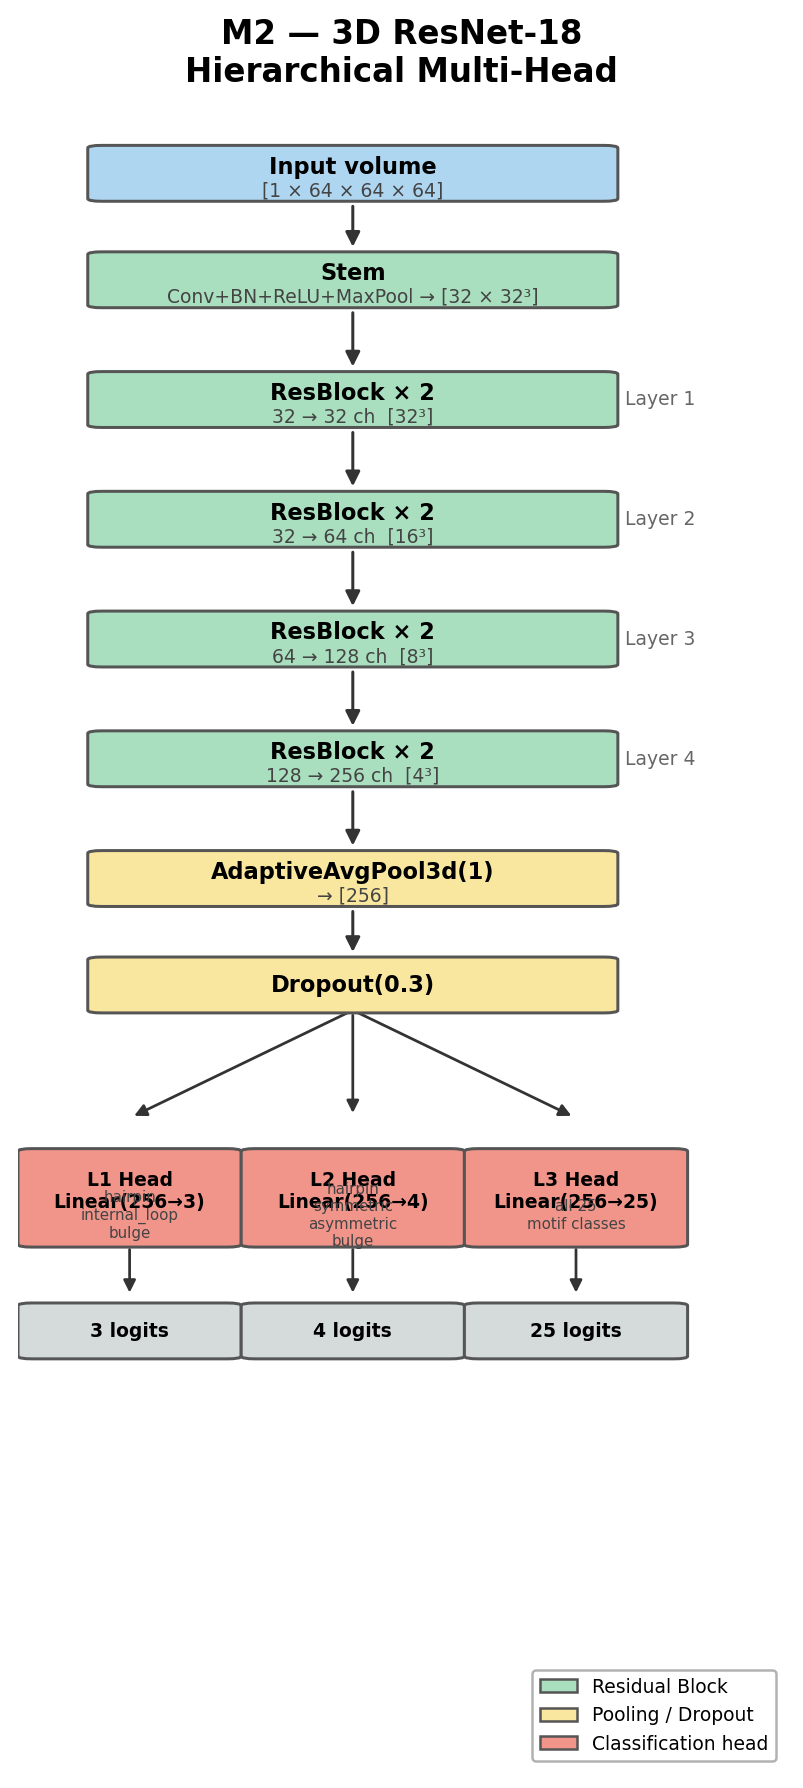
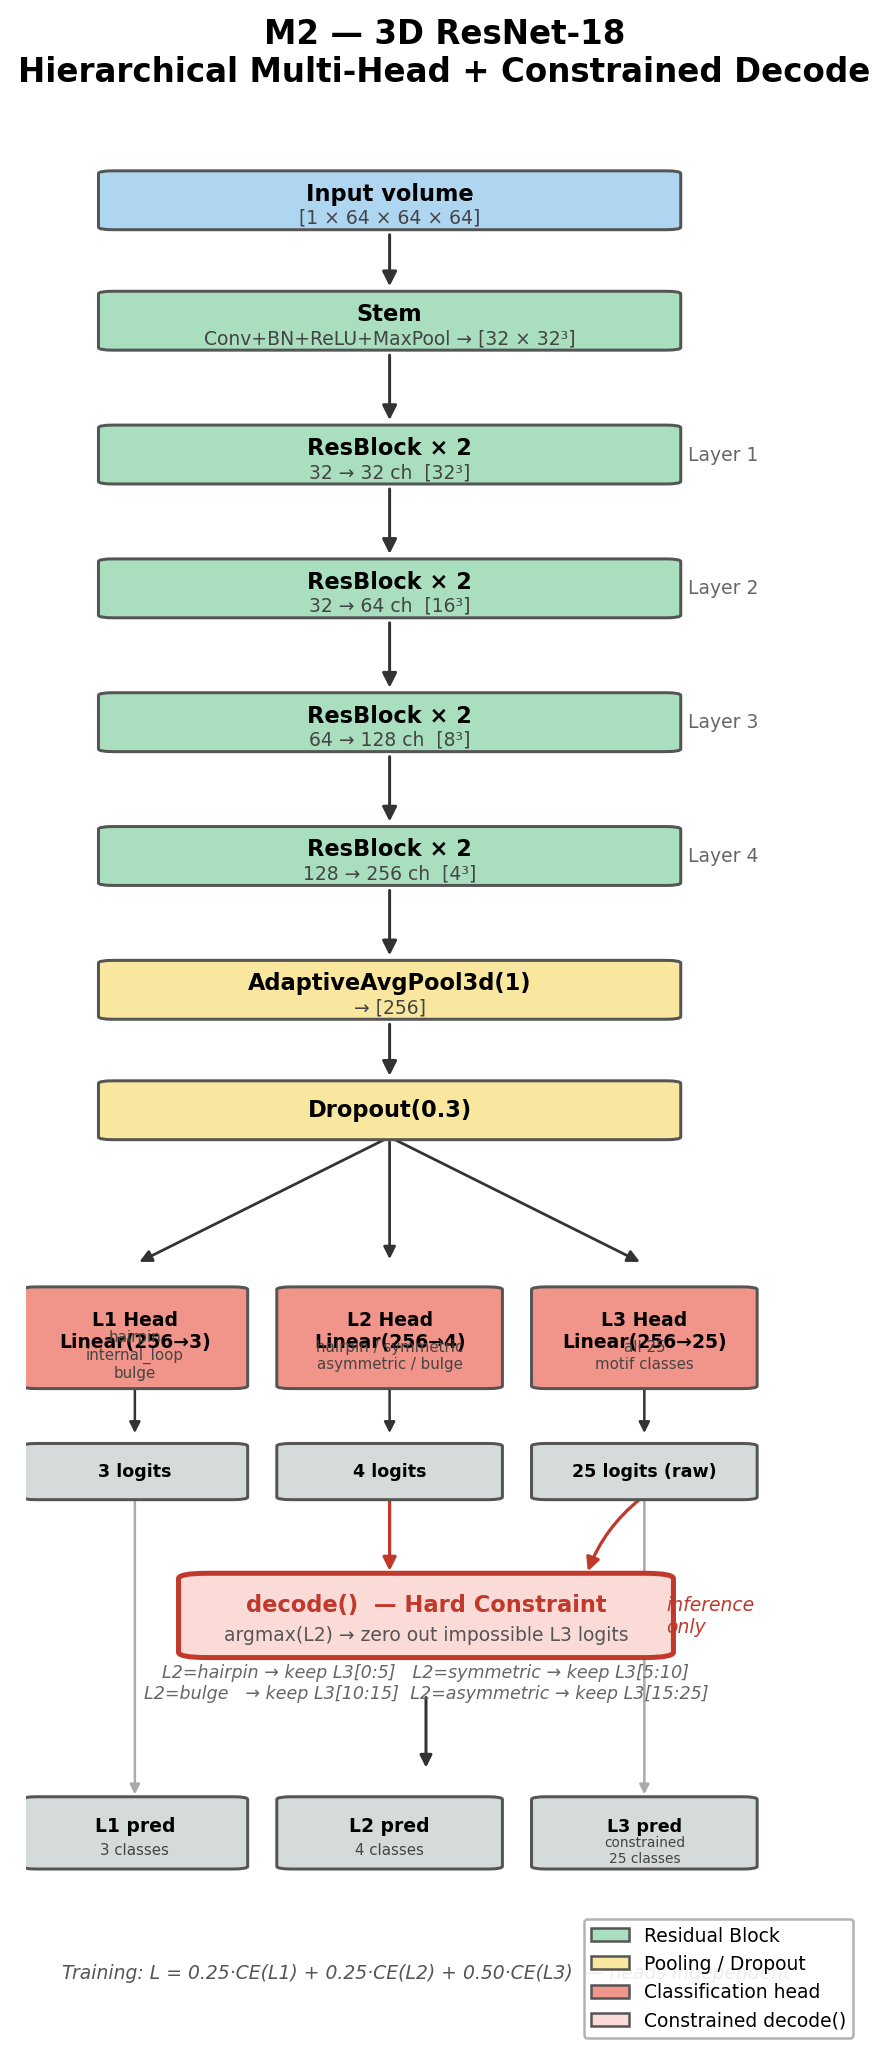
deploy: 2026-06-03 18:31

Changed region(s): [[0.0, 0.0, 0.9963, 1.0], [0.0311, 0.8613, 0.2802, 0.9228], [0.1245, 0.9536, 0.1557, 0.9843]]

diff --git a/scripts/generate_architecture_diagrams.py b/scripts/generate_architecture_diagrams.py
@@ -135,24 +135,24 @@ def draw_m1():
 # ---------------------------------------------------------------------------
 
 def draw_m2():
-    fig, ax = plt.subplots(figsize=(5.5, 12))
-    ax.set_xlim(0, 1.1); ax.set_ylim(0, 12.5)
+    fig, ax = plt.subplots(figsize=(6.0, 14))
+    ax.set_xlim(0, 1.15); ax.set_ylim(0, 14.5)
     ax.axis("off")
-    ax.set_title("M2 — 3D ResNet-18\nHierarchical Multi-Head",
+    ax.set_title("M2 — 3D ResNet-18\nHierarchical Multi-Head + Constrained Decode",
                  fontsize=13, fontweight="bold", pad=10)
 
-    cx = 0.48
-    bw, bh = 0.72, 0.38
+    cx = 0.50
+    bw, bh = 0.76, 0.40
 
     backbone = [
-        (12.0, "Input volume",         "[1 × 64 × 64 × 64]",  "input"),
-        (11.2, "Stem",                 "Conv+BN+ReLU+MaxPool → [32 × 32³]", "conv"),
-        (10.3, "ResBlock × 2",         "32 → 32 ch  [32³]",   "res"),
-        (9.4,  "ResBlock × 2",         "32 → 64 ch  [16³]",   "res"),
-        (8.5,  "ResBlock × 2",         "64 → 128 ch  [8³]",   "res"),
-        (7.6,  "ResBlock × 2",         "128 → 256 ch  [4³]",  "res"),
-        (6.7,  "AdaptiveAvgPool3d(1)", "→ [256]",             "pool"),
-        (5.9,  "Dropout(0.3)",         "",                     "pool"),
+        (13.8, "Input volume",         "[1 × 64 × 64 × 64]",          "input"),
+        (12.9, "Stem",                 "Conv+BN+ReLU+MaxPool → [32 × 32³]", "conv"),
+        (11.9, "ResBlock × 2",         "32 → 32 ch  [32³]",            "res"),
+        (10.9, "ResBlock × 2",         "32 → 64 ch  [16³]",            "res"),
+        (9.9,  "ResBlock × 2",         "64 → 128 ch  [8³]",            "res"),
+        (8.9,  "ResBlock × 2",         "128 → 256 ch  [4³]",           "res"),
+        (7.9,  "AdaptiveAvgPool3d(1)", "→ [256]",                      "pool"),
+        (7.0,  "Dropout(0.3)",         "",                              "pool"),
     ]
 
     for i, (y, lbl, sub, ckey) in enumerate(backbone):
@@ -160,40 +160,92 @@ def draw_m2():
         if i < len(backbone) - 1:
             arrow(ax, cx, y - bh / 2, backbone[i + 1][0] + bh / 2)
 
-    # Three heads side by side
+    # Three independent heads side by side
     heads = [
-        (0.16, "L1 Head\nLinear(256→3)", "hairpin\ninternal_loop\nbulge", "head"),
-        (0.48, "L2 Head\nLinear(256→4)", "hairpin\nsymmetric\nasymmetric\nbulge", "head"),
-        (0.80, "L3 Head\nLinear(256→25)", "all 25\nmotif classes", "head"),
+        (0.15, "L1 Head\nLinear(256→3)",  "hairpin\ninternal_loop\nbulge",      "head"),
+        (0.50, "L2 Head\nLinear(256→4)",  "hairpin / symmetric\nasymmetric / bulge", "head"),
+        (0.85, "L3 Head\nLinear(256→25)", "all 25\nmotif classes",               "head"),
     ]
 
-    # Arrow from dropout to each head
     for hx, _, _, _ in heads:
-        ax.annotate("", xy=(hx, 4.9), xytext=(cx, 5.9 - bh / 2),
-                    arrowprops=dict(arrowstyle="-|>", color="#333",
-                                   lw=1.1, mutation_scale=10,
-                                   connectionstyle="arc3,rad=0.0"), zorder=2)
-
-    for hx, lbl, sub, ckey in heads:
-        box(ax, hx, 4.3, 0.28, 0.7, lbl, sub, COLORS[ckey], fontsize=7.5)
-
-    # Output labels
-    for hx, out_lbl in [(0.16, "3 logits"), (0.48, "4 logits"), (0.80, "25 logits")]:
-        ax.annotate("", xy=(hx, 3.55), xytext=(hx, 3.95),
+        ax.annotate("", xy=(hx, 5.85), xytext=(cx, 7.0 - bh / 2),
                     arrowprops=dict(arrowstyle="-|>", color="#333",
                                    lw=1.1, mutation_scale=10), zorder=2)
-        box(ax, hx, 3.3, 0.28, 0.38, out_lbl, "", COLORS["output"], fontsize=7.5)
 
-    # Layer labels on right
-    for y, label in [(10.3, "Layer 1"), (9.4, "Layer 2"),
-                      (8.5, "Layer 3"), (7.6, "Layer 4")]:
-        ax.text(0.87, y, label, ha="left", va="center",
-                fontsize=7.5, color="#666")
+    for hx, lbl, sub, ckey in heads:
+        box(ax, hx, 5.3, 0.27, 0.72, lbl, sub, COLORS[ckey], fontsize=7.5)
+
+    # Raw logit outputs
+    for hx, out_lbl in [(0.15, "3 logits"), (0.50, "4 logits"), (0.85, "25 logits (raw)")]:
+        ax.annotate("", xy=(hx, 4.55), xytext=(hx, 4.95),
+                    arrowprops=dict(arrowstyle="-|>", color="#333",
+                                   lw=1.0, mutation_scale=9), zorder=2)
+        box(ax, hx, 4.3, 0.27, 0.38, out_lbl, "", COLORS["output"], fontsize=7.0)
+
+    # decode() box — constrained inference
+    DECODE_COLOR = "#FADBD8"
+    DECODE_EDGE  = "#C0392B"
+
+    # Arrow from L2 logits down into decode box
+    ax.annotate("", xy=(0.50, 3.52), xytext=(0.50, 4.12),
+                arrowprops=dict(arrowstyle="-|>", color=DECODE_EDGE,
+                                lw=1.3, mutation_scale=11), zorder=2)
+    # Arrow from L3 raw logits into decode box
+    ax.annotate("", xy=(0.77, 3.52), xytext=(0.85, 4.12),
+                arrowprops=dict(arrowstyle="-|>", color=DECODE_EDGE,
+                                lw=1.3, mutation_scale=11,
+                                connectionstyle="arc3,rad=0.15"), zorder=2)
+
+    decode_rect = FancyBboxPatch((0.25, 2.95), 0.60, 0.55,
+                                  boxstyle="round,pad=0.04",
+                                  linewidth=2.0, edgecolor=DECODE_EDGE,
+                                  facecolor=DECODE_COLOR, zorder=3)
+    ax.add_patch(decode_rect)
+    ax.text(0.55, 3.30, "decode()  — Hard Constraint", ha="center", va="center",
+            fontsize=9, fontweight="bold", color=DECODE_EDGE, zorder=4)
+    ax.text(0.55, 3.08, "argmax(L2) → zero out impossible L3 logits",
+            ha="center", va="center", fontsize=7.5, color="#555", zorder=4)
+
+    # Constraint examples
+    ax.text(0.55, 2.72,
+            "L2=hairpin → keep L3[0:5]   L2=symmetric → keep L3[5:10]\n"
+            "L2=bulge   → keep L3[10:15]  L2=asymmetric → keep L3[15:25]",
+            ha="center", va="center", fontsize=7.0, color="#666",
+            style="italic", zorder=4)
+
+    # Final constrained output
+    ax.annotate("", xy=(0.55, 2.05), xytext=(0.55, 2.65),
+                arrowprops=dict(arrowstyle="-|>", color="#333",
+                                lw=1.2, mutation_scale=10), zorder=2)
+    box(ax, 0.15, 1.6, 0.27, 0.50, "L1 pred", "3 classes", COLORS["output"], fontsize=7.5)
+    box(ax, 0.50, 1.6, 0.27, 0.50, "L2 pred", "4 classes", COLORS["output"], fontsize=7.5)
+    box(ax, 0.85, 1.6, 0.27, 0.50, "L3 pred", "constrained\n25 classes", COLORS["output"], fontsize=7.0)
+
+    for hx in [0.15, 0.85]:
+        ax.annotate("", xy=(hx, 1.85), xytext=(hx, 4.12),
+                    arrowprops=dict(arrowstyle="-|>", color="#AAA",
+                                   lw=1.0, mutation_scale=8,
+                                   connectionstyle="arc3,rad=0.0"), zorder=1)
+
+    # Inference only label
+    ax.text(0.88, 3.22, "inference\nonly", ha="left", va="center",
+            fontsize=7.5, color=DECODE_EDGE, style="italic")
+
+    # Layer labels
+    for y, label in [(11.9, "Layer 1"), (10.9, "Layer 2"),
+                      (9.9,  "Layer 3"), (8.9,  "Layer 4")]:
+        ax.text(0.91, y, label, ha="left", va="center", fontsize=7.5, color="#666")
+
+    # Training note
+    ax.text(0.55, 0.55,
+            "Training: L = 0.25·CE(L1) + 0.25·CE(L2) + 0.50·CE(L3)  — heads independent",
+            ha="center", va="center", fontsize=7.5, color="#555", style="italic")
 
     legend(ax, [
-        ("Residual Block",    COLORS["res"]),
-        ("Pooling / Dropout", COLORS["pool"]),
-        ("Classification head", COLORS["head"]),
+        ("Residual Block",       COLORS["res"]),
+        ("Pooling / Dropout",    COLORS["pool"]),
+        ("Classification head",  COLORS["head"]),
+        ("Constrained decode()", DECODE_COLOR),
     ])
     save(fig, "architecture_m2_resnet.png")
 

diff --git a/scripts/infer_sample.py b/scripts/infer_sample.py
@@ -1,0 +1,121 @@
+"""
+Single-sample inference with M3 V3 (SwinTransformer3D).
+
+Loads one MRC density volume, runs it through the trained model, and
+prints the predicted class at L1, L2, and L3 with confidence scores.
+Optionally accepts a paired PDB file path for display purposes only
+(PDB is not used as model input — density-only inference).
+
+Usage:
+    python scripts/infer_sample.py \
+        --mrc /path/to/sample.mrc \
+        --pdb /path/to/sample.pdb \
+        --checkpoint checkpoints/swin3d_v3/best.pt
+"""
+import argparse
+import sys
+from pathlib import Path
+
+import torch
+import torch.nn.functional as F
+
+PROJECT_ROOT = Path(__file__).resolve().parent.parent
+sys.path.insert(0, str(PROJECT_ROOT))
+
+from scripts.label_map import L1_CLASSES, L2_CLASSES, ALL25_CLASSES
+from src.dataset import _normalize_95p
+
+
+def load_volume(mrc_path: str, target_size=(64, 64, 64)) -> torch.Tensor:
+    import mrcfile
+    import numpy as np
+    with mrcfile.open(mrc_path, permissive=True) as mrc:
+        data = mrc.data.astype("float32")
+    if data.ndim != 3:
+        raise ValueError(f"Expected 3D volume, got shape {data.shape}")
+    data = _normalize_95p(data)
+    volume = torch.from_numpy(data).unsqueeze(0).unsqueeze(0)  # [1,1,D,H,W]
+    if tuple(volume.shape[2:]) != target_size:
+        volume = F.interpolate(volume, size=target_size,
+                               mode="trilinear", align_corners=False)
+    return volume  # [1, 1, 64, 64, 64]
+
+
+def top_k(logits: torch.Tensor, names: list, k: int = 3):
+    probs = F.softmax(logits[0], dim=0)
+    topk  = probs.topk(min(k, len(names)))
+    return [(names[i], float(topk.values[j])) for j, i in enumerate(topk.indices)]
+
+
+def main():
+    parser = argparse.ArgumentParser()
+    parser.add_argument("--mrc",        required=True,  help="Path to .mrc density file")
+    parser.add_argument("--pdb",        default=None,   help="Path to paired .pdb file (display only)")
+    parser.add_argument("--checkpoint", required=True,  help="Path to .pt checkpoint")
+    parser.add_argument("--device",     default=None)
+    args = parser.parse_args()
+
+    # ── Device ────────────────────────────────────────────────────────────
+    if args.device:
+        device = args.device
+    else:
+        device = ("cuda" if torch.cuda.is_available()
+                  else "mps"  if torch.backends.mps.is_available()
+                  else "cpu")
+
+    # ── Load model ────────────────────────────────────────────────────────
+    from models.swin3d import SwinTransformer3D
+    model = SwinTransformer3D().to(device)
+    ckpt  = torch.load(args.checkpoint, map_location=device, weights_only=False)
+    model.load_state_dict(ckpt["model_state"])
+    model.eval()
+    print(f"Loaded checkpoint  : {args.checkpoint}  (epoch {ckpt['epoch']}, "
+          f"best val L3-F1={ckpt['best_val_f1']:.4f})")
+
+    # ── Load volume ───────────────────────────────────────────────────────
+    volume = load_volume(args.mrc, target_size=(64, 64, 64)).to(device)
+    print(f"MRC file           : {args.mrc}")
+    if args.pdb:
+        print(f"PDB file           : {args.pdb}  (not used as model input)")
+    print(f"Volume shape       : {tuple(volume.shape[1:])}")
+    print(f"Device             : {device}")
+    print()
+
+    # ── Inference ─────────────────────────────────────────────────────────
+    with torch.no_grad():
+        output = model(volume)
+
+    # ── Hard-constraint decode: use L2 prediction to constrain L3 ─────────
+    output_decoded = model.decode(output)
+
+    # ── Results ───────────────────────────────────────────────────────────
+    pred_l1 = output["l1"].argmax(1).item()
+    pred_l2 = output["l2"].argmax(1).item()
+    pred_l3 = output_decoded["l3"].argmax(1).item()
+
+    conf_l1 = float(F.softmax(output["l1"][0], dim=0).max())
+    conf_l2 = float(F.softmax(output["l2"][0], dim=0).max())
+    conf_l3 = float(F.softmax(output_decoded["l3"][0], dim=0).max())
+
+    print("=" * 52)
+    print("  Prediction")
+    print("=" * 52)
+    print(f"  L1  topology    : {L1_CLASSES[pred_l1]:<18}  ({conf_l1*100:.1f}% confidence)")
+    print(f"  L2  symmetry    : {L2_CLASSES[pred_l2]:<18}  ({conf_l2*100:.1f}% confidence)")
+    print(f"  L3  fine-grained: {ALL25_CLASSES[pred_l3]:<18}  ({conf_l3*100:.1f}% confidence)")
+    print("=" * 52)
+
+    print("\n  Top-3 at L3 (after hierarchical constraint):")
+    for name, prob in top_k(output_decoded["l3"], ALL25_CLASSES, k=3):
+        bar = "█" * int(prob * 30)
+        print(f"    {name:<14}  {prob*100:5.1f}%  {bar}")
+
+    print("\n  Full L2 distribution:")
+    probs_l2 = F.softmax(output["l2"][0], dim=0)
+    for i, name in enumerate(L2_CLASSES):
+        bar = "█" * int(float(probs_l2[i]) * 30)
+        print(f"    {name:<14}  {float(probs_l2[i])*100:5.1f}%  {bar}")
+
+
+if __name__ == "__main__":
+    main()

diff --git a/src/evaluate.py b/src/evaluate.py
@@ -455,7 +455,7 @@ def load_model(
         checkpoint_path: Path to a .pt file saved by train.py.
         device:          Device to load the model onto.
     """
-    ckpt = torch.load(checkpoint_path, map_location=device)
+    ckpt = torch.load(checkpoint_path, map_location=device, weights_only=False)
     model.load_state_dict(ckpt["model_state"])
     model = model.to(device)
     model.eval()
